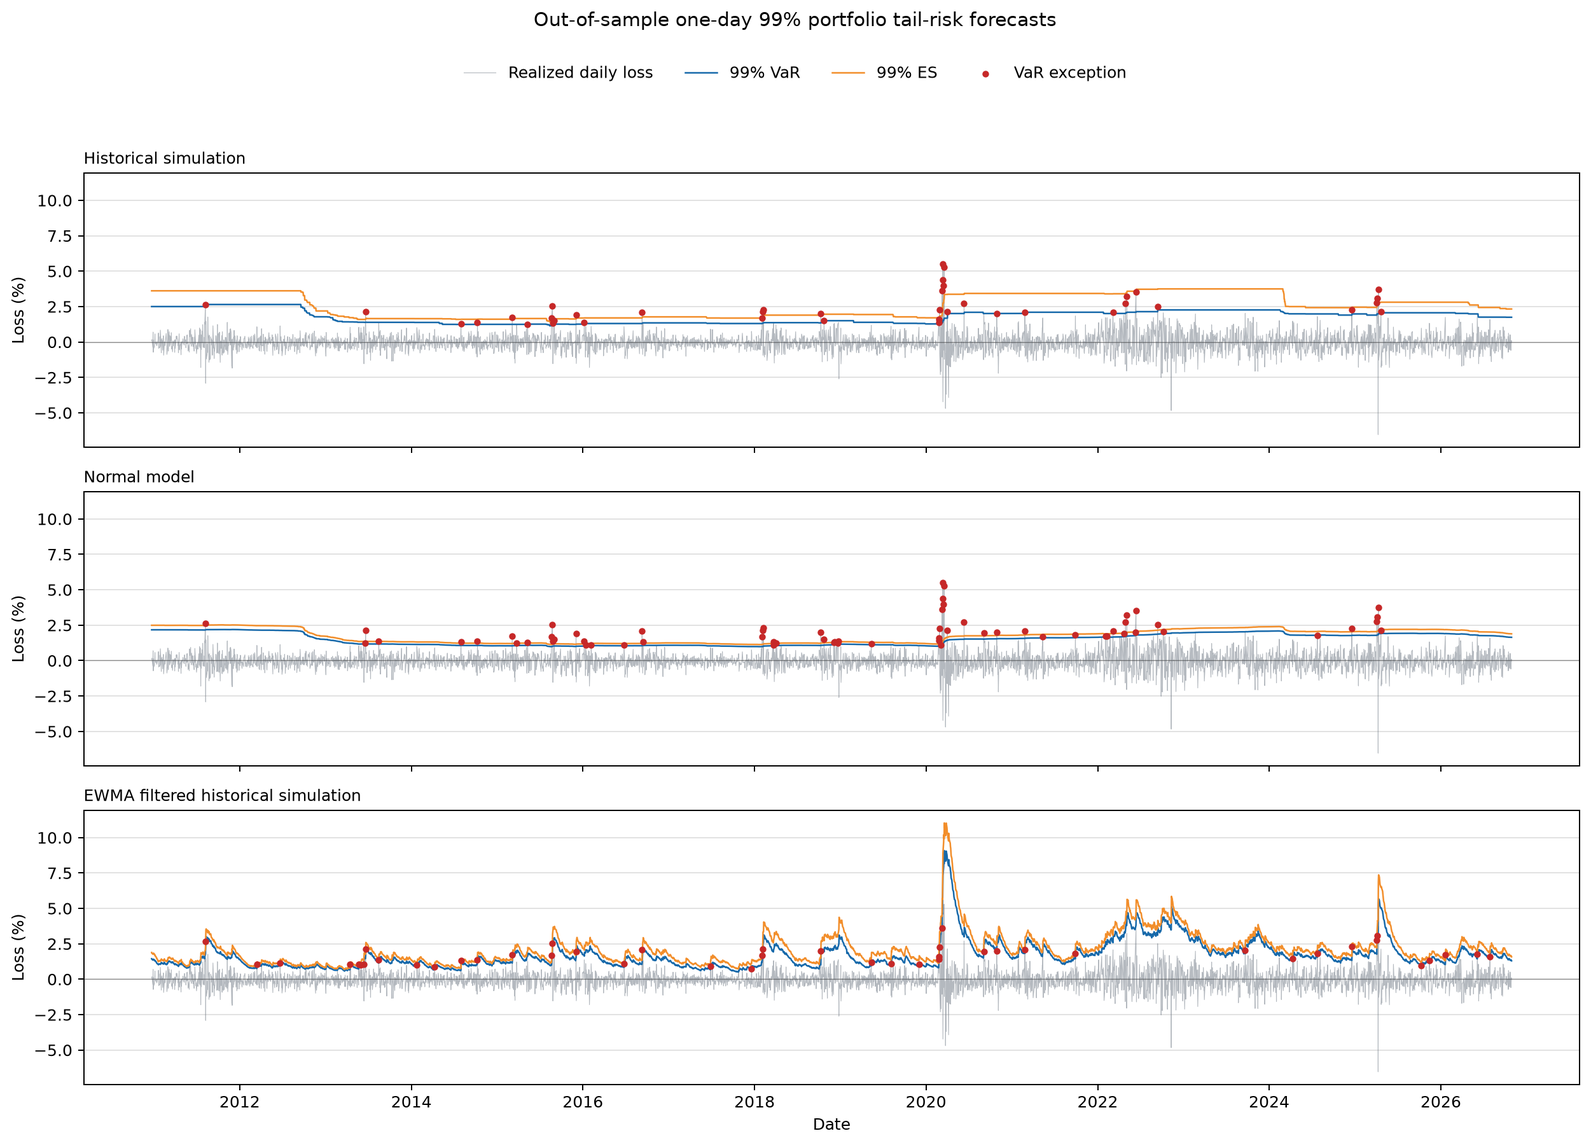
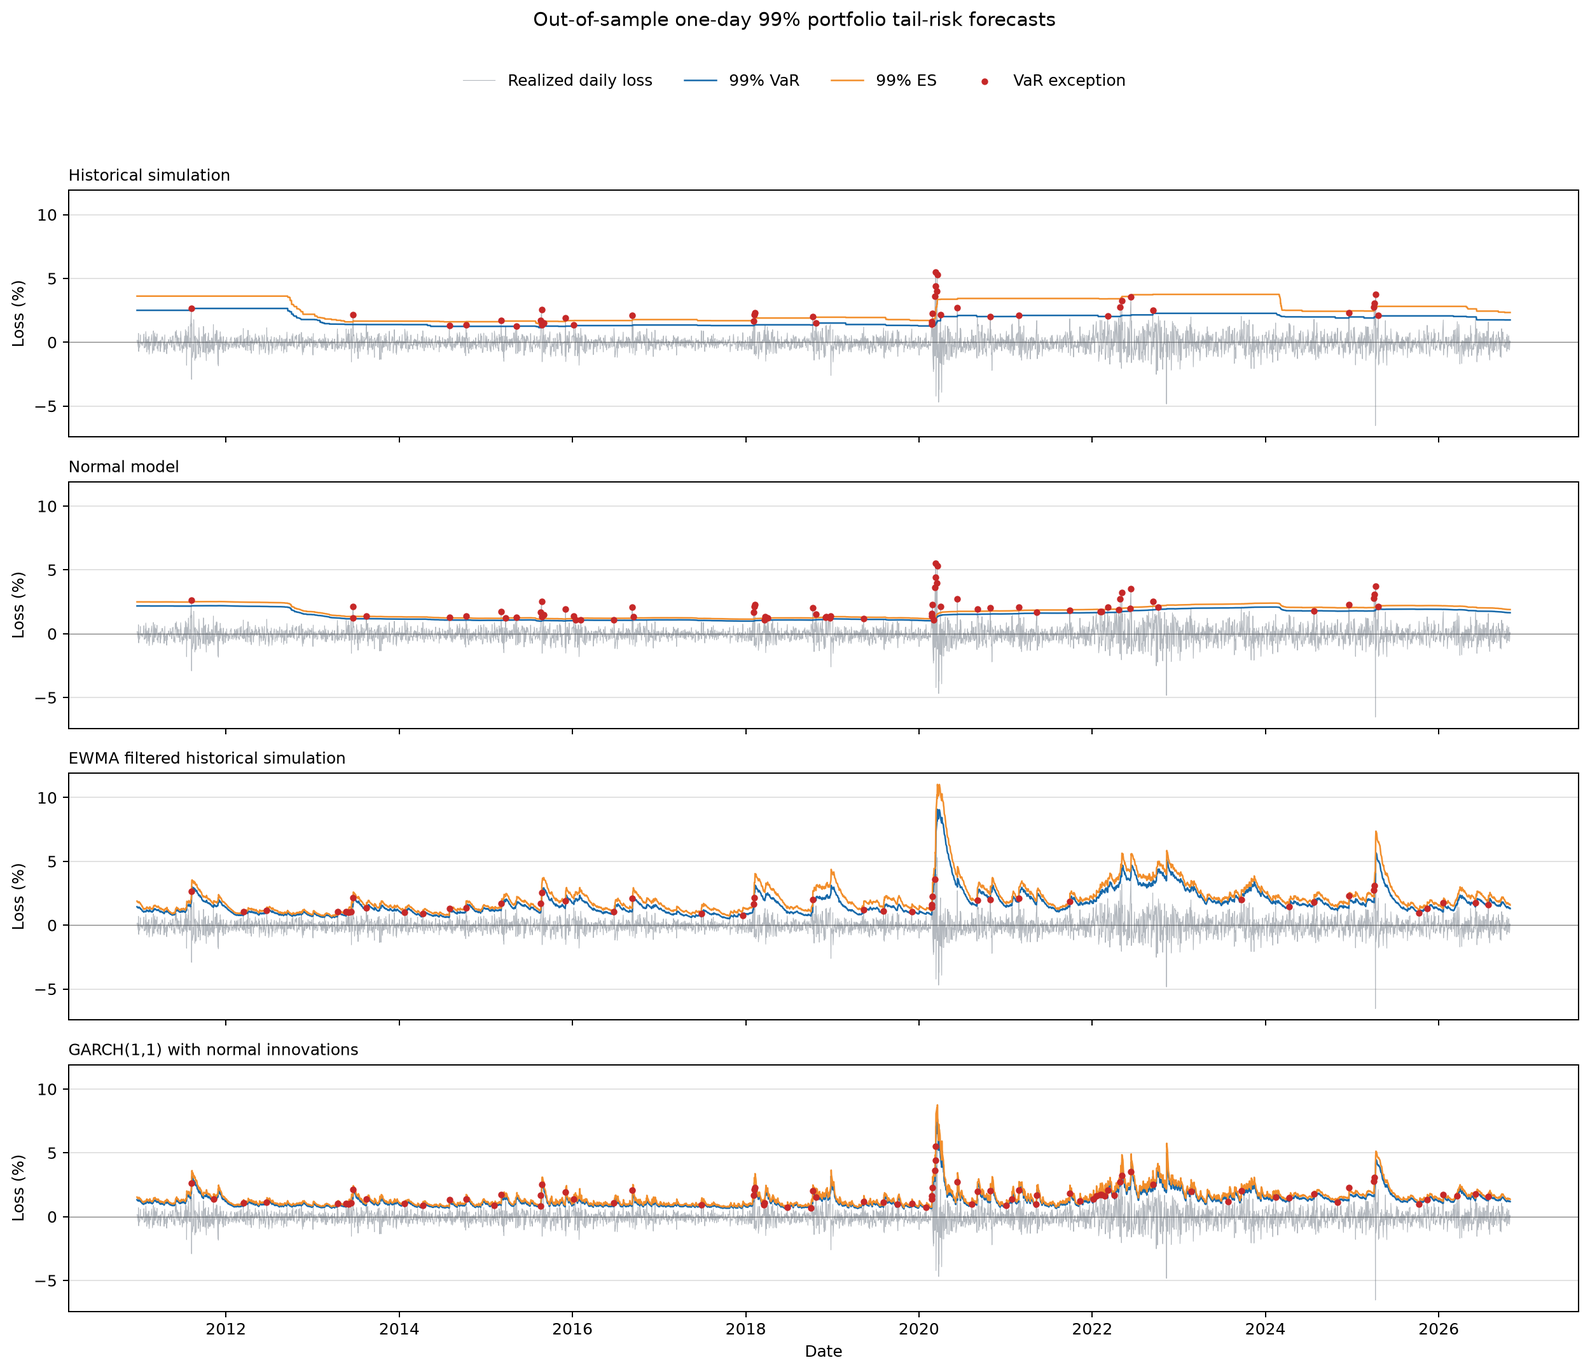
Add GARCH(1,1) model comparison

diff --git a/src/backtest_var_es.py b/src/backtest_var_es.py
@@ -1,4 +1,4 @@
-"""Compare rolling historical and normal-model VaR and ES forecasts."""
+"""Compare historical, normal, EWMA, and GARCH VaR and ES forecasts."""
 
 from math import erfc, exp, log, pi, sqrt
 from pathlib import Path
@@ -6,6 +6,7 @@ from statistics import NormalDist
 
 import numpy as np
 import pandas as pd
+from arch import arch_model
 
 
 PROJECT_ROOT = Path(__file__).resolve().parents[1]
@@ -18,7 +19,8 @@ EWMA_DECAY_FACTOR = 0.94
 EWMA_INITIALIZATION_SIZE = 20
 REGIME_VOLATILITY_WINDOW = 20
 REGIME_HIGH_VOLATILITY_QUANTILE = 0.75
-MODELS = ("historical", "normal", "ewma_fhs")
+GARCH_REFIT_INTERVAL = 21
+MODELS = ("historical", "normal", "ewma_fhs", "garch")
 
 
 def historical_es(window_returns: np.ndarray, tail_probability: float) -> float:
@@ -82,11 +84,55 @@ def make_forecasts(
         for level in CONFIDENCE_LEVELS
         for kind in ("var", "es")
     }
+    garch_mean_estimates = np.full(len(return_values), np.nan)
+    garch_variance_estimates = np.full(len(return_values), np.nan)
+    garch_parameters = None
+    garch_variance_pct_squared = None
 
     for position in range(window_size, len(return_values)):
         prior_window = return_values[position - window_size : position]
         for key, value in ewma_filtered_risk(prior_window).items():
             ewma_estimates[key][position] = value
+
+        should_refit_garch = (position - window_size) % GARCH_REFIT_INTERVAL == 0
+        if should_refit_garch:
+            fitted_garch = arch_model(
+                prior_window * 100,
+                mean="Constant",
+                vol="GARCH",
+                p=1,
+                o=0,
+                q=1,
+                dist="normal",
+                rescale=False,
+            ).fit(update_freq=0, disp="off")
+            if fitted_garch.convergence_flag != 0:
+                raise RuntimeError(
+                    f"GARCH(1,1) estimation did not converge at "
+                    f"{portfolio_returns.index[position]} (window={window_size})."
+                )
+            parameters = fitted_garch.params
+            garch_parameters = (
+                float(parameters["mu"]),
+                float(parameters["omega"]),
+                float(parameters["alpha[1]"]),
+                float(parameters["beta[1]"]),
+            )
+            garch_variance_pct_squared = float(
+                fitted_garch.forecast(horizon=1, reindex=False)
+                .residual_variance.iloc[-1, 0]
+            )
+        else:
+            mean_pct, omega, alpha, beta = garch_parameters
+            latest_innovation_pct = return_values[position - 1] * 100 - mean_pct
+            garch_variance_pct_squared = (
+                omega
+                + alpha * latest_innovation_pct**2
+                + beta * garch_variance_pct_squared
+            )
+
+        garch_mean_estimates[position] = garch_parameters[0] / 100
+        garch_variance_estimates[position] = garch_variance_pct_squared / 10_000
 
     for confidence in CONFIDENCE_LEVELS:
         level = int(confidence * 100)
@@ -126,6 +172,21 @@ def make_forecasts(
         forecasts[f"ewma_fhs_exception_{level}"] = (
             portfolio_returns < -ewma_var
         ).where(ewma_var.notna())
+
+        garch_mean = pd.Series(garch_mean_estimates, index=forecasts.index)
+        garch_standard_deviation = pd.Series(
+            np.sqrt(garch_variance_estimates), index=forecasts.index
+        )
+        garch_var = -(garch_mean + normal_quantile * garch_standard_deviation)
+        garch_expected_shortfall = -(
+            garch_mean
+            - garch_standard_deviation * normal_density / tail_probability
+        )
+        forecasts[f"garch_var_{level}"] = garch_var
+        forecasts[f"garch_es_{level}"] = garch_expected_shortfall
+        forecasts[f"garch_exception_{level}"] = (
+            portfolio_returns < -garch_var
+        ).where(garch_var.notna())
 
     return forecasts
 

diff --git a/src/plot_var_es.py b/src/plot_var_es.py
@@ -1,4 +1,4 @@
-"""Plot realized losses, VaR, ES, and exceptions for the three models."""
+"""Plot realized losses, VaR, ES, and exceptions for all models."""
 
 from pathlib import Path
 
@@ -14,6 +14,7 @@ MODELS = (
     ("historical", "Historical simulation"),
     ("normal", "Normal model"),
     ("ewma_fhs", "EWMA filtered historical simulation"),
+    ("garch", "GARCH(1,1) with normal innovations"),
 )
 
 
@@ -44,7 +45,7 @@ def main() -> None:
     fig, axes = plt.subplots(
         len(MODELS),
         1,
-        figsize=(14, 10),
+        figsize=(14, 12),
         sharex=True,
         sharey=True,
     )

diff --git a/reports/initial_findings.md b/reports/initial_findings.md
@@ -2,7 +2,7 @@
 
 ## Setup
 
-The comparison uses one-day returns for a daily rebalanced portfolio holding 60% SPY and 40% TLT. Each model is estimated from the previous 1,000 trading days and then forecasts the next day. The out-of-sample period runs from 2010-12-22 through 2026-10-29, covering 3,987 forecast dates.
+The comparison uses one-day returns for a daily rebalanced portfolio holding 60% SPY and 40% TLT. Each model uses up to the previous 1,000 trading days to forecast the next day. GARCH parameters are refreshed every 21 trading days, while its conditional variance is updated daily. The out-of-sample period runs from 2010-12-22 through 2026-10-29, covering 3,987 forecast dates.
 
 An exception occurs when the realized loss is greater than that day's VaR forecast. A correctly calibrated 95% VaR should have an exception rate near 5%; a 99% VaR should be near 1% over a sufficiently long sample.
 
@@ -13,8 +13,9 @@ An exception occurs when the realized loss is greater than that day's VaR foreca
 | Historical simulation | 199 / 3,987 | 4.99% | 40 / 3,987 | 1.00% |
 | Normal model | 184 / 3,987 | 4.62% | 65 / 3,987 | 1.63% |
 | EWMA filtered historical simulation | 201 / 3,987 | 5.04% | 46 / 3,987 | 1.15% |
+| GARCH(1,1) with normal innovations | 219 / 3,987 | 5.49% | 82 / 3,987 | 2.06% |
 
-At the 99% level, the normal model records more exceptions than its 1% target. Its average 99% VaR is 1.51% and average ES is 1.74%, below the corresponding historical estimates of 1.79% VaR and 2.56% ES. This is consistent with the normal model understating tail risk in this sample.
+At the 99% level, the normal and GARCH models record more exceptions than their 1% target. GARCH has an average 99% VaR of 1.31% and ES of 1.51%; it responds to changing volatility, but its normal innovation assumption does not capture enough of this portfolio's extreme losses in this sample.
 
 The historical and EWMA models have aggregate 99% exception rates closer to 1%. That alone does not establish that either model is reliable: the exceptions are unevenly distributed through time.
 
@@ -28,7 +29,8 @@ The summary now includes the Kupiec unconditional-coverage test, which checks wh
 | --- | ---: | ---: | ---: | ---: |
 | Historical simulation | 0.980 | <0.001 | <0.001 | -4.172 |
 | Normal model | 0.259 | <0.001 | <0.001 | -4.144 |
-| EWMA filtered historical simulation | 0.905 | 0.018 | 0.060 | **-4.345** |
+| EWMA filtered historical simulation | 0.905 | 0.018 | 0.060 | -4.345 |
+| GARCH(1,1) with normal innovations | 0.160 | 0.006 | 0.008 | **-4.366** |
 
 ### 99% VaR
 
@@ -37,10 +39,11 @@ The summary now includes the Kupiec unconditional-coverage test, which checks wh
 | Historical simulation | 0.984 | <0.001 | <0.001 | -3.611 |
 | Normal model | <0.001 | <0.001 | <0.001 | -3.373 |
 | EWMA filtered historical simulation | 0.341 | 0.002 | 0.005 | **-3.894** |
+| GARCH(1,1) with normal innovations | <0.001 | 0.008 | <0.001 | -3.841 |
 
-At 95%, none of the models is rejected by the unconditional-coverage test, but historical and normal exceptions are strongly dependent. EWMA's independence test also rejects at 5%; its combined conditional-coverage p-value is 0.060, just above that cutoff. At 99%, historical and EWMA exception counts are consistent with their 1% target, while the normal model has too many exceptions. All three models show dependent exceptions, so none passes the combined conditional-coverage test.
+At 95%, none of the models is rejected by the unconditional-coverage test, but the independence test rejects for all four. The combined conditional-coverage test rejects historical, normal, and GARCH; EWMA's p-value is 0.060, just above the 5% cutoff. At 99%, the normal and GARCH models have too many exceptions, and all four models fail the combined conditional-coverage test.
 
-The FZ0 column is the mean joint VaR-ES score for positive loss forecasts; a lower score is better. EWMA has the lowest score at both levels in this sample. This is a comparative score, not a standalone statistical acceptance test for ES, so it does not establish that EWMA is universally best. The score follows the joint VaR and ES scoring framework of [Fissler, Ziegel, and Gneiting](https://arxiv.org/abs/1507.00244). The coverage tests follow [Kupiec](https://fedinprint.org/item/fedgfe/34596/original) and [Christoffersen](https://users.ssc.wisc.edu/~bhansen/718/Christoffersen1998.pdf).
+The FZ0 column is the mean joint VaR-ES score for positive loss forecasts; a lower score is better. GARCH has the lowest score at 95%, while EWMA has the lowest at 99%. This is a comparative score, not a standalone statistical acceptance test for ES, so it does not establish a universally best model. GARCH specifies a constant conditional mean, GARCH(1,1) variance, and normally distributed innovations, estimated by maximum likelihood as described in the [`arch` documentation](https://arch.readthedocs.io/en/stable/univariate/univariate_volatility_modeling.html). The joint VaR-ES score follows [Fissler, Ziegel, and Gneiting](https://arxiv.org/abs/1507.00244); the coverage tests follow [Kupiec](https://fedinprint.org/item/fedgfe/34596/original) and [Christoffersen](https://users.ssc.wisc.edu/~bhansen/718/Christoffersen1998.pdf).
 
 ## Performance by volatility regime
 
@@ -54,7 +57,8 @@ The tables show exception counts and rates alongside mean FZ0 scores. Lower scor
 | --- | ---: | ---: | ---: | ---: |
 | Historical simulation | 137 / 3,428 (4.00%) | 62 / 559 (11.09%) | -4.310 | -3.324 |
 | Normal model | 128 / 3,428 (3.73%) | 56 / 559 (10.02%) | -4.300 | -3.187 |
-| EWMA filtered historical simulation | 182 / 3,428 (5.31%) | 19 / 559 (3.40%) | **-4.440** | **-3.760** |
+| EWMA filtered historical simulation | 182 / 3,428 (5.31%) | 19 / 559 (3.40%) | -4.440 | -3.760 |
+| GARCH(1,1) with normal innovations | 196 / 3,428 (5.72%) | 23 / 559 (4.11%) | **-4.446** | **-3.873** |
 
 ### 99% VaR and ES
 
@@ -62,9 +66,10 @@ The tables show exception counts and rates alongside mean FZ0 scores. Lower scor
 | --- | ---: | ---: | ---: | ---: |
 | Historical simulation | 26 / 3,428 (0.76%) | 14 / 559 (2.50%) | -3.842 | -2.195 |
 | Normal model | 47 / 3,428 (1.37%) | 18 / 559 (3.22%) | -3.770 | -0.936 |
-| EWMA filtered historical simulation | 44 / 3,428 (1.28%) | 2 / 559 (0.36%) | **-3.982** | **-3.354** |
+| EWMA filtered historical simulation | 44 / 3,428 (1.28%) | 2 / 559 (0.36%) | **-3.982** | -3.354 |
+| GARCH(1,1) with normal innovations | 72 / 3,428 (2.10%) | 10 / 559 (1.79%) | -3.892 | **-3.529** |
 
-In high-volatility periods, historical and normal models exceed their exception-rate targets at both levels. EWMA has fewer high-volatility exceptions than the target; in the lower-volatility group, all three models' 95% rates are close to 5%, and their 99% rates range from 0.76% to 1.37%. EWMA also has the lowest mean FZ0 score in each regime at both levels. These subgroup rates and score rankings are descriptive: no score-difference test was run, and the high-volatility 99% results contain only 2 to 18 exceptions per model.
+In high-volatility periods, historical and normal models exceed their exception-rate targets at both levels. GARCH's 95% rate is below target in the high-volatility group, but its 99% rate is still 1.79%; EWMA is below target at both levels. GARCH has the lowest FZ0 score in both 95% regimes and the high-volatility 99% regime; EWMA is lowest in the lower-volatility 99% regime. These subgroup rates and score rankings are descriptive: no score-difference test was run, and high-volatility 99% results contain only 2 to 18 exceptions per model.
 
 ## Sensitivity to rolling-window length
 
@@ -72,44 +77,45 @@ I compared 500-, 1,000-, and 1,500-day estimation windows over the same evaluati
 
 ### 95% VaR and ES
 
-| Window | Historical exceptions | Normal exceptions | EWMA exceptions | Historical FZ0 | Normal FZ0 | EWMA FZ0 |
-| ---: | ---: | ---: | ---: | ---: | ---: | ---: |
-| 500 days | 5.79% | 5.33% | 5.05% | -4.178 | -4.128 | **-4.303** |
-| 1,000 days | 5.62% | 5.22% | 5.05% | -4.170 | -4.142 | **-4.310** |
-| 1,500 days | 5.68% | 5.19% | 4.96% | -4.115 | -4.083 | **-4.311** |
+| Window | Historical exceptions | Normal exceptions | EWMA exceptions | GARCH exceptions | Historical FZ0 | Normal FZ0 | EWMA FZ0 | GARCH FZ0 |
+| ---: | ---: | ---: | ---: | ---: | ---: | ---: | ---: | ---: |
+| 500 days | 5.79% | 5.33% | 5.05% | 5.48% | -4.178 | -4.128 | -4.303 | **-4.322** |
+| 1,000 days | 5.62% | 5.22% | 5.05% | 5.59% | -4.170 | -4.142 | -4.310 | **-4.329** |
+| 1,500 days | 5.68% | 5.19% | 4.96% | 5.68% | -4.115 | -4.083 | -4.311 | **-4.326** |
 
 ### 99% VaR and ES
 
-| Window | Historical exceptions | Normal exceptions | EWMA exceptions | Historical FZ0 | Normal FZ0 | EWMA FZ0 |
-| ---: | ---: | ---: | ---: | ---: | ---: | ---: |
-| 500 days | 1.23% | 1.95% | 1.26% | -3.565 | -3.301 | **-3.843** |
-| 1,000 days | 1.12% | 1.84% | 1.23% | -3.609 | -3.309 | **-3.839** |
-| 1,500 days | 1.00% | 2.09% | 1.06% | -3.559 | -3.243 | **-3.859** |
+| Window | Historical exceptions | Normal exceptions | EWMA exceptions | GARCH exceptions | Historical FZ0 | Normal FZ0 | EWMA FZ0 | GARCH FZ0 |
+| ---: | ---: | ---: | ---: | ---: | ---: | ---: | ---: | ---: |
+| 500 days | 1.23% | 1.95% | 1.26% | 2.15% | -3.565 | -3.301 | **-3.843** | -3.775 |
+| 1,000 days | 1.12% | 1.84% | 1.23% | 2.24% | -3.609 | -3.309 | **-3.839** | -3.777 |
+| 1,500 days | 1.00% | 2.09% | 1.06% | 2.24% | -3.559 | -3.243 | **-3.859** | -3.778 |
 
-EWMA has the lowest mean FZ0 score for every window size at both levels, so that ranking is stable in this comparison. At 99%, the normal model exceeds the 1% exception target for all three windows, while historical and EWMA remain closer to target. The differences in FZ0 scores are not statistically tested, and the 99% exception counts are limited, so this is evidence of robustness within these choices rather than proof that one window is best.
+GARCH has the lowest mean FZ0 score at 95% for all three window sizes; EWMA has the lowest at 99%. GARCH's 99% exception rate remains above 2% across all window sizes. The differences in FZ0 scores are not statistically tested, and the 99% exception counts are limited, so this is evidence of robustness within these choices rather than proof that one window is best.
 
 ## Exceptions by year at 99% VaR
 
-| Year | Forecast days | Historical | Normal | EWMA filtered historical | Expected at 1% |
-| --- | ---: | ---: | ---: | ---: | ---: |
-| 2015 | 252 | 7 | 8 | 4 | 2.5 |
-| 2018 | 251 | 5 | 12 | 3 | 2.5 |
-| 2020 | 253 | 11 | 13 | 6 | 2.5 |
-| 2022 | 251 | 5 | 10 | 0 | 2.5 |
+| Year | Forecast days | Historical | Normal | EWMA filtered historical | GARCH | Expected at 1% |
+| --- | ---: | ---: | ---: | ---: | ---: | ---: |
+| 2015 | 252 | 7 | 8 | 4 | 6 | 2.5 |
+| 2018 | 251 | 5 | 12 | 3 | 9 | 2.5 |
+| 2020 | 253 | 11 | 13 | 6 | 11 | 2.5 |
+| 2022 | 251 | 5 | 10 | 0 | 11 | 2.5 |
 
-The normal model has clusters of exceptions in 2018, 2020, and 2022. Historical simulation also has a cluster in 2020. EWMA has fewer exceptions in those selected years, but had six in 2013 and four in 2014; a few selected years are not enough to rank the models.
+The normal and GARCH models have clusters of exceptions in 2018, 2020, and 2022. Historical simulation also has a cluster in 2020. EWMA has fewer exceptions in those selected years, but had six in 2013 and four in 2014; a few selected years are not enough to rank the models.
 
 ## Visual comparison
 
 ![Out-of-sample 99% VaR and ES forecasts with exceptions highlighted](figures/var_es_99_backtest.png)
 
-The EWMA model's VaR and ES rise quickly around large return shocks and then decline as those shocks receive less weight. Historical simulation changes in steps as observations enter or leave its rolling window. The normal model's forecasts change more smoothly.
+The EWMA and GARCH models' VaR and ES respond to changing volatility, while historical simulation changes in steps as observations enter or leave its rolling window. The unconditional normal model's forecasts change more smoothly.
 
 ## Limitations and next analysis
 
-- The likelihood-ratio p-values are asymptotic. In particular, there are only 40 to 65 exceptions at 99%, so those test results should be interpreted cautiously.
+- The likelihood-ratio p-values are asymptotic. There are 40 to 82 exceptions per model at 99%, so those test results should be interpreted cautiously.
 - The mean FZ0 scores rank joint VaR-ES forecasts in this sample but do not test whether score differences are statistically significant.
 - A 1,000-day window contains only about 10 observations beyond a 99% empirical quantile, so 99% historical and filtered-tail estimates are noisy.
+- GARCH assumes normally distributed standardized innovations and refreshes its parameters every 21 trading days; a Student-t specification or more frequent refitting could produce different results.
 - The results depend on this portfolio, daily rebalancing assumption, sample period, and data source. They do not identify a universal best model.
 
-The next useful extension is to compare these forecasts with a volatility model such as GARCH, while keeping the same evaluation period and scoring rules.
+The next useful extension is to compare GARCH with a heavy-tailed innovation distribution and test score differences with a paired procedure.

diff --git a/README.md b/README.md
@@ -21,6 +21,7 @@ The models to compare are:
 1. Historical simulation
 2. A parametric model with normally distributed returns
 3. Filtered historical simulation with EWMA volatility
+4. A constant-mean GARCH(1,1) model with normal innovations
 
 For each method, the project will estimate 95% and 99% VaR and ES. The estimates will be tested against returns that were not used to fit the models. The comparison will consider how often losses exceed VaR, the size of losses beyond VaR, and how results differ across market conditions.
 
@@ -31,8 +32,9 @@ The first comparison uses the previous 1,000 trading days of portfolio returns t
 - Historical simulation, which estimates the tail from observed returns
 - A normal model, which estimates the tail from the rolling mean and standard deviation
 - EWMA filtered historical simulation, which rescales past returns by their estimated volatility before estimating the tail
+- GARCH(1,1) with normal innovations, which models volatility clustering and refits its parameters every 21 trading days
 
-Each day's forecast uses only earlier returns. All models use a 1,000-day window. The EWMA model uses a daily decay factor of 0.94, following the [RiskMetrics technical document](https://www.msci.com/documents/10199/5915b101-4206-4ba0-aee2-3449d5c7e95a). The script saves forecasts and a summary of VaR exceptions for each model.
+Each day's forecast uses only earlier returns. The historical, normal, EWMA, and GARCH models use a 1,000-day window; GARCH parameters are estimated from that trailing window every 21 trading days, with conditional variance updated daily. The EWMA model uses a daily decay factor of 0.94, following the [RiskMetrics technical document](https://www.msci.com/documents/10199/5915b101-4206-4ba0-aee2-3449d5c7e95a). The GARCH specification follows the [arch package's model documentation](https://arch.readthedocs.io/en/stable/univariate/univariate_volatility_modeling.html).
 
 The summary also reports Kupiec unconditional-coverage tests and Christoffersen independence and conditional-coverage tests for VaR exceptions. For joint VaR-ES comparison, it reports the mean FZ0 score, where a lower score is better. The [initial findings](reports/initial_findings.md) explain the results and their limitations; the tests follow [Kupiec](https://fedinprint.org/item/fedgfe/34596/original), [Christoffersen](https://users.ssc.wisc.edu/~bhansen/718/Christoffersen1998.pdf), and the joint scoring framework of [Fissler, Ziegel, and Gneiting](https://arxiv.org/abs/1507.00244).
 
@@ -40,13 +42,19 @@ The same script compares forecasts in lower- and high-volatility regimes. It cla
 
 It also compares 500-, 1,000-, and 1,500-day estimation windows on a shared evaluation period, so the results are not driven by different market dates. Those results are saved as `var_es_window_sensitivity.csv` in `data/processed/`.
 
-Run it after downloading the data:
+Install the project dependencies, including `arch` for GARCH estimation:
+
+```bash
+python3 -m pip install -r requirements.txt
+```
+
+Then run it after downloading the data:
 
 ```bash
 python3 src/backtest_var_es.py
 ```
 
-It writes `var_es_forecasts.csv` and `var_es_summary.csv` to `data/processed/`.
+It writes the forecasts, model summary, volatility-regime summary, and window-sensitivity summary to `data/processed/`.
 
 Generate the 99% VaR/ES comparison chart after the model script:
 
@@ -76,4 +84,4 @@ See [the initial findings](reports/initial_findings.md) for the first exception-
 
 ## Project status
 
-The data pipeline, three rolling VaR/ES models, VaR exception diagnostics, joint VaR-ES scoring, volatility-regime and rolling-window comparisons, an out-of-sample 99% chart, and an initial findings report are in place. The current findings are specific to this portfolio and sample; a useful next step is to add and compare a GARCH volatility model.
+The data pipeline, four rolling VaR/ES models, VaR exception diagnostics, joint VaR-ES scoring, volatility-regime and rolling-window comparisons, an out-of-sample 99% chart, and an initial findings report are in place. The current findings are specific to this portfolio and sample; a useful next step is to investigate a heavy-tailed innovation distribution for GARCH.
